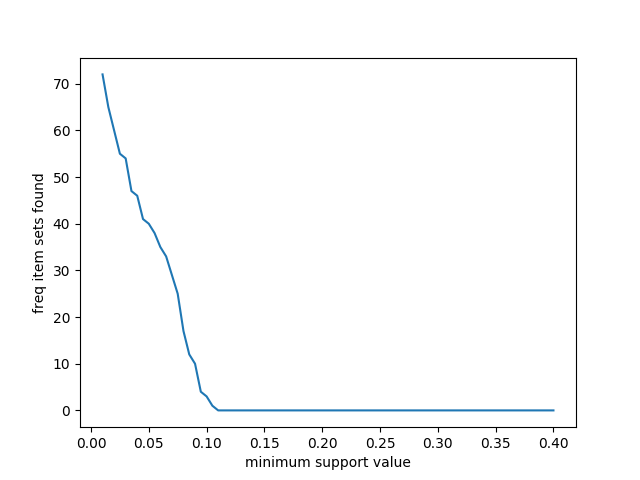
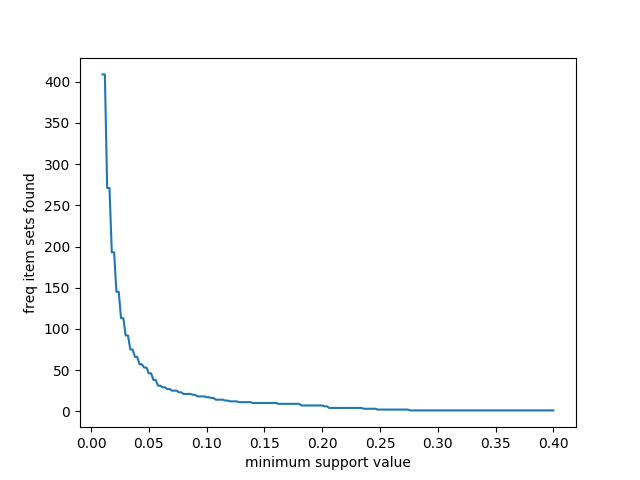
WIP parsing transcriptions

diff --git a/src/apriori.py b/src/apriori.py
@@ -2,6 +2,8 @@ import csv, pdb, itertools
 from pprint import pprint
 import matplotlib.pyplot as plt
 import math
+import re
+
 
 def parse_data_file(filename):
     baskets = {}
@@ -11,16 +13,49 @@ def parse_data_file(filename):
             baskets[int(row[0])] = set(map(lambda x: int(x), row[1:]))
     return baskets
 
-def parse_name_file(filename):
-    result = {}
-    with open(filename, 'r') as file:
+def parse_transcription_files(data_filename, gene_file, factors_file):
+    baskets = {}
+    genes = {}
+    factors = {}
+    with open(data_filename, 'r') as file:
         reader = csv.DictReader(file)
         for row in reader:
-            key = int(row.pop('Id'))
-            for k, v in row.items():
-                row[k] = v.replace("'", "")
-            result[key] = row
-    return result
+            gene = int(row.pop('expgene'))
+            factor = int(row.pop('tf_id'))
+            baskets[gene] = {gene, factor}
+    with open(gene_file, 'r') as file:
+        reader = csv.DictReader(file)
+        for row in reader:
+            id = int(row.pop('expgene'))
+            genes[id] = ",".join([row.pop('geneabbrev'), row.pop('experiment'), row.pop('species')])
+    with open(factors_file, 'r') as file:
+        reader = csv.DictReader(file)
+        for row in reader:
+            id = int(row.pop('tf_id'))
+            factors[id] = row.pop('transfac')
+    return baskets, genes, factors
+
+
+def parse_name_file(filename):
+    result = {}
+    if re.match(".*\.csv", filename):
+        with open(filename, 'r') as file:
+            reader = csv.DictReader(file)
+            for row in reader:
+                key = int(row.pop('Id'))
+                for k, v in row.items():
+                    row[k] = v.replace("'", "")
+                result[key] = row
+        return result
+    elif re.match(".*\.psv", filename):
+        with open(filename, 'r') as file:
+            for row in file.readlines():
+                line = row.split('|')
+                result[int(line[0].lstrip().rstrip())] = line[1].lstrip().rstrip()
+        return result
+    else:
+        print("filetype '{}' not recognized".format(filename))
+        exit()
 
 def support(T, item_set, supports):
     count = 0
@@ -103,7 +138,7 @@ def gen_rules(F, T, min_conf, supports):
     return rules
 
 def plot_supp(plot_filename, text_filename, dataset, start_supp, end_supp):
-    dx = 0.005
+    dx = 0.002
     supp = start_supp
     items = frozenset(dataset.keys())
     min_supports = []
@@ -115,7 +150,7 @@ def plot_supp(plot_filename, text_filename, dataset, start_supp, end_supp):
             min_supports.append(supp)
             isets_found.append(len(freq_isets))
             file.write("{:08f} -> {}\n".format(supp, len(freq_isets)))
-            #print("  {:08f} -> {}".format(supp, len(freq_isets)))
+            print("  {:08f} -> {}".format(supp, len(freq_isets)))
             supp -= dx
             if supp - dx < end_supp:
                 break
@@ -157,8 +192,25 @@ def write_named_freq_isets(filename, freq_isets, names):
         freq_isets = sorted(freq_isets, key=lambda i: -i[0])
         file.write('Skyline Frequent Itemsets ({})\n'.format(len(freq_isets)))
         for s in freq_isets:
-            named_set = { names[i]['Flavor'] + ' ' + names[i]['Food'] for i in s[1] }
+            first = next(iter(names))
+            if 'Flavor' in names[first] and 'Food' in names[first]:
+                named_set = { names[i]['Flavor'] + ' ' + names[i]['Food'] for i in s[1] }
+            else:
+                named_set = { names[i] for i in s[1] }
             file.write("({:03f}) {:>12}\n".format(s[0], str(named_set)))
+
+
+def write_named_freq_isets_transcription(filename, freq_isets, genes, factors):
+    with open(filename, 'w') as file:
+        freq_isets = sorted(freq_isets, key=lambda i: -i[0])
+        file.write('Skyline Frequent Itemsets ({})\n'.format(len(freq_isets)))
+        for s in freq_isets:
+            pdb.set_trace()
+            #first = next(iter(names))
+            #named_set = { names[i]['Flavor'] + ' ' + names[i]['Food'] for i in s[1] }
+            #file.write("({:03f}) {:>12}\n".format(s[0], str(named_set)))
+
+
 
 
 def write_named_rules(filename, rules, names):
@@ -166,17 +218,23 @@ def write_named_rules(filename, rules, names):
         rules = sorted(rules, key=lambda r: -r[0])
         file.write('Skyline Rules ({})\n'.format(len(rules)))
         for r in rules:
-            named_left = { names[i]['Flavor'] + ' ' + names[i]['Food'] for i in r[1][0] }
-            named_right = { names[i]['Flavor'] + ' ' + names[i]['Food'] for i in r[1][1] }
+            first = next(iter(names))
+            if 'Flavor' in names[first] and 'Food' in names[first]:
+                named_left = { names[i]['Flavor'] + ' ' + names[i]['Food'] for i in r[1][0] }
+                named_right = { names[i]['Flavor'] + ' ' + names[i]['Food'] for i in r[1][1] }
+            else:
+                named_left = { names[i] for i in r[1][0] }
+                named_right = { names[i] for i in r[1][1] }
+ 
             rule_str = "{} --> {}".format(named_left, named_right)
             file.write("({:03f}) {:>12}\n".format(r[0], rule_str))
 
 
 def plot(dataset, names, min_supp):
     start_sup = 0.4  # when to start plot
-    end_sup = 0.0 # when to end plot (eventually becomes too slow)
+    end_sup = 0.007 # when to end plot (eventually becomes too slow)
     start_conf = 1.0 # when to start plot
-    end_conf = 0.5 # when to end plot
+    end_conf = 0.3 # when to end plot
     print("plotting supports...")
     plot_supp("support.png", "support.txt", baskets, start_sup, end_sup)
     print("  -> wrote to support.png, support.txt")
@@ -212,24 +270,14 @@ def mine_bakery(data_filename, goods_filename):
     print("  -> wrote to rules.txt")
 
 import argparse
+from sys import argv
 
-if __name__ == "__main__":
-    parser = argparse.ArgumentParser()
-    parser.add_argument("data_file", help="file containing the dataset")
-    parser.add_argument("min_supp", type=float, help="minimum support, must be in range 0-1")
-    parser.add_argument("min_conf", type=float, help="minimum confidence, must be in range 0-1")
-    parser.add_argument("name_file", help="file that maps IDs in data file to names")
-
-    parser.add_argument("--rules", help="specify this with any value (ex: 1) to generate association rules")
-    parser.add_argument("--plot", help="specify this with any value (ex: 1) to generate plots for min_supp and min_conf (warning: this makes the program very slow)")
-    args = parser.parse_args()
-
+def parse_normal(args):
     baskets = parse_data_file(args.data_file)
     names = parse_name_file(args.name_file)
 
     if args.plot:
         plot(baskets, names, args.min_supp)
-
 
     print("generating freq isets...")
     supports = {}
@@ -240,7 +288,6 @@ if __name__ == "__main__":
     write_named_freq_isets("freq_isets.txt", freq_isets_w_support, names)
     print("  -> wrote to freq_isets.txt")
 
-
     if args.rules:
         print("generating rules...")
         rules = gen_rules(sky_freq_isets, baskets, args.min_conf, supports)
@@ -248,4 +295,37 @@ if __name__ == "__main__":
         write_named_rules("rules.txt", rules_w_conf, names)
         print("  -> wrote to rules.txt")
 
+def parse_transcriptions(args):
+    baskets, genes, factors = parse_transcription_files(args.data_file, args.name_file, args.factors)
+
+    if args.plot:
+        plot(baskets, names, args.min_supp)
+
+    print("generating freq isets...")
+    supports = {}
+    items = frozenset(baskets.keys())
+    freq_isets = apriori(baskets, items, args.min_supp, supports)
+    sky_freq_isets = get_skyline(freq_isets)
+    freq_isets_w_support = [(support(baskets, frozenset(s), supports), s) for s in sky_freq_isets]
+    write_named_freq_isets_transcription("freq_isets.txt", freq_isets_w_support, genes, factors)
+    print("  -> wrote to freq_isets.txt")
+
+
+
+if __name__ == "__main__":
+    parser = argparse.ArgumentParser()
+    parser.add_argument("data_file", help="file containing the dataset")
+    parser.add_argument("min_supp", type=float, help="minimum support, must be in range 0-1")
+    parser.add_argument("min_conf", type=float, help="minimum confidence, must be in range 0-1")
+    parser.add_argument("name_file", help="file that maps IDs in data file to names")
+
+    parser.add_argument("--factors", help="specificy this to the factors name file and include the gene file as name file in order to analyze transcriptions")
+    parser.add_argument("--rules", action='store_true', help="specify to generate association rules")
+    parser.add_argument("--plot", action='store_true', help="specify to generate plots for min_supp and min_conf (warning: this makes the program very slow)")
+    args = parser.parse_args()
+
+    if args.factors:
+        parse_transcriptions(args)
+    else:
+        parse_normal(args)
 
